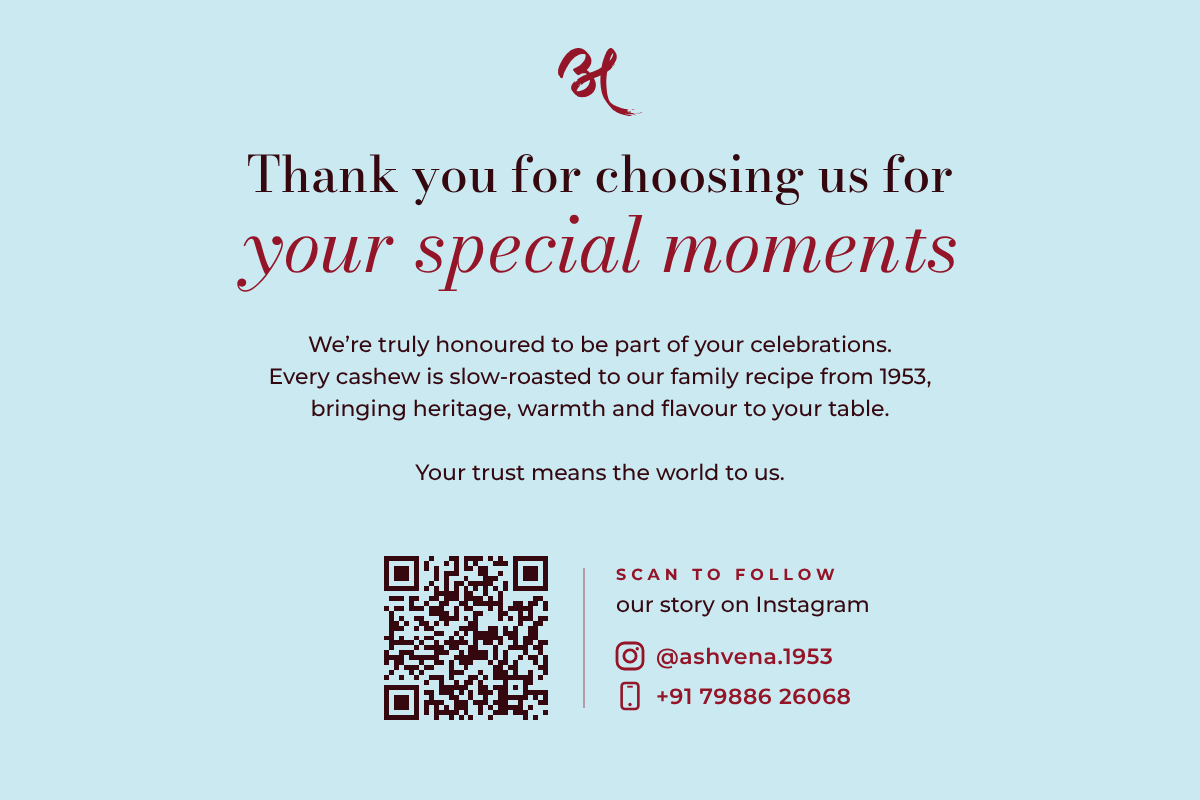
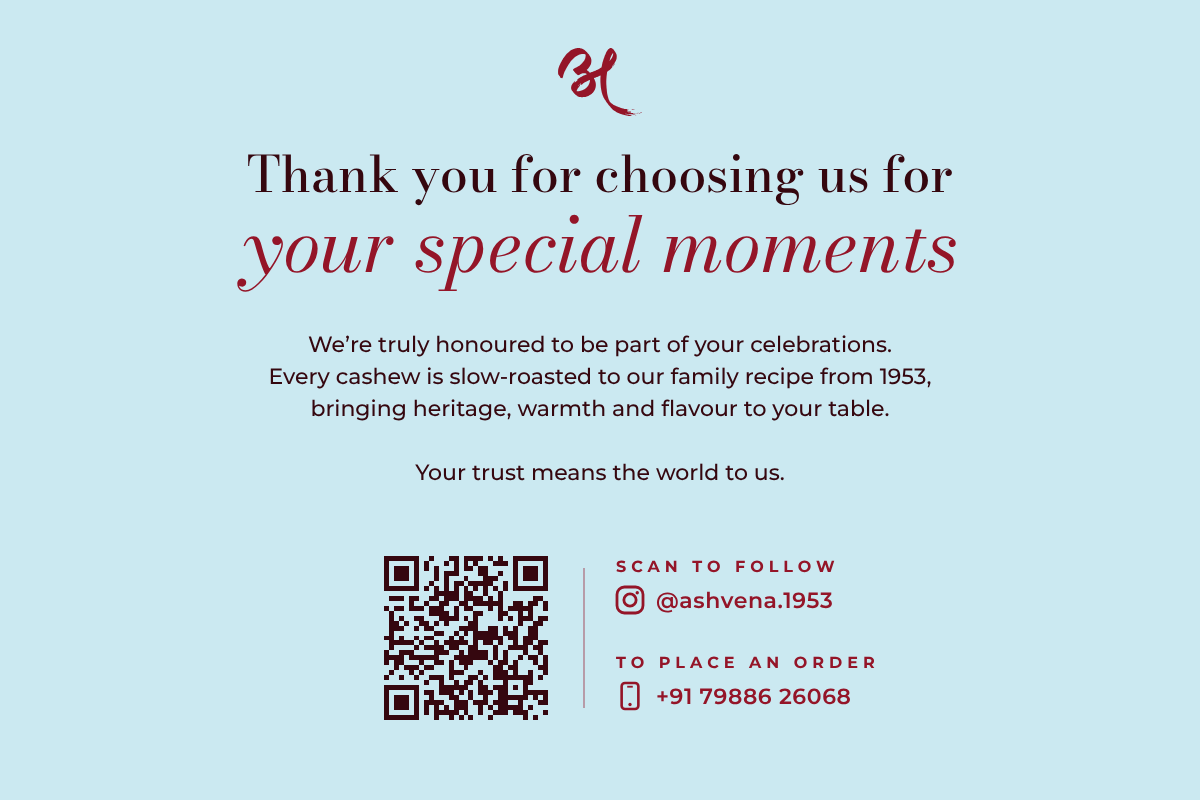
Label thank-you card phone number "To place an order"
The contact column now has two labelled groups: Scan to follow
(Instagram handle) and To place an order (mobile number).

Claude-Session: https://claude.ai/code/session_01NdK4AQVhPAgYcWckgUP14Q

Changed region(s): [[0.4933, 0.6875, 0.74, 0.7812], [0.4933, 0.8125, 0.74, 0.8438]]

diff --git a/scripts/generate_thank_you_card.py b/scripts/generate_thank_you_card.py
@@ -150,17 +150,17 @@ def back(handle, phone):
                + text(cx, 136, "your special moments", 38, BRICK, F_SERIF, 400, extra=' font-style="italic"')))
     o.append(g("Message", "".join(text(cx, 176 + i * 16, s, 11, DEEP_LAC, F_SANS, 500) for i, s in enumerate(BODY) if s)))
 
-    # Instagram row: QR on the left, call to action on the right, centred as a unit
+    # contact row: Instagram QR on the left; follow + order details on the right
     url = f"https://www.instagram.com/{handle}/"
     qs, qx, qy = 82, 192, 278
     o.append(g("Instagram",
                qr_code(qx, qy, qs, url, DEEP_LAC)
                + f'<line x1="{qx + qs + 18}" y1="{qy + 6}" x2="{qx + qs + 18}" y2="{qy + qs - 6}" stroke="{BRICK}" '
                  f'stroke-width=".8" opacity=".45"/>'
-               + text(qx + qs + 34, qy + 12, "SCAN TO FOLLOW", 8, BRICK, F_SANS, 700, 2.5, anchor="start")
-               + text(qx + qs + 34, qy + 28, "our story on Instagram", 11, DEEP_LAC, F_SANS, 500, anchor="start")
-               + insta_glyph(qx + qs + 41, qy + 50, 13, BRICK)
-               + text(qx + qs + 54, qy + 54, f"@{esc(handle)}", 11, BRICK, F_SANS, 600, .3, anchor="start")
+               + text(qx + qs + 34, qy + 8, "SCAN TO FOLLOW", 8, BRICK, F_SANS, 700, 2.5, anchor="start")
+               + insta_glyph(qx + qs + 41, qy + 22, 13, BRICK)
+               + text(qx + qs + 54, qy + 26, f"@{esc(handle)}", 11, BRICK, F_SANS, 600, .3, anchor="start")
+               + text(qx + qs + 34, qy + 56, "TO PLACE AN ORDER", 8, BRICK, F_SANS, 700, 2.5, anchor="start")
                + phone_glyph(qx + qs + 41, qy + 70, 13, BRICK)
                + text(qx + qs + 54, qy + 74, esc(phone), 11, BRICK, F_SANS, 600, .3, anchor="start")))
     return svg_doc("\n".join(o), "Ashvena thank-you card - back")
